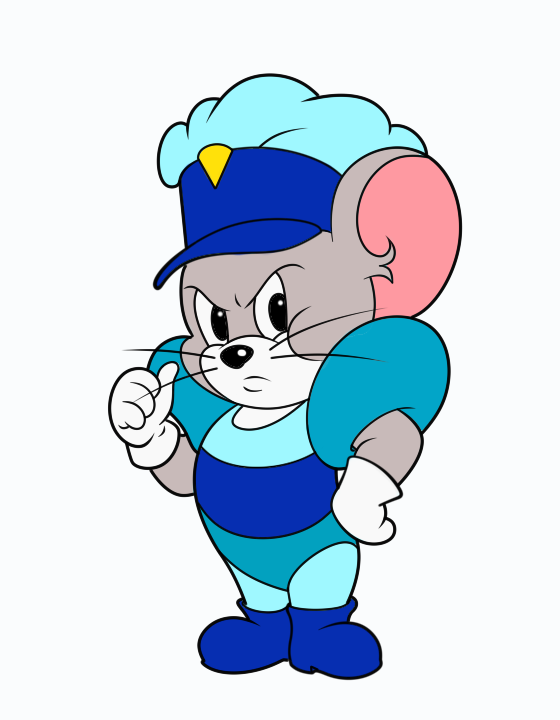
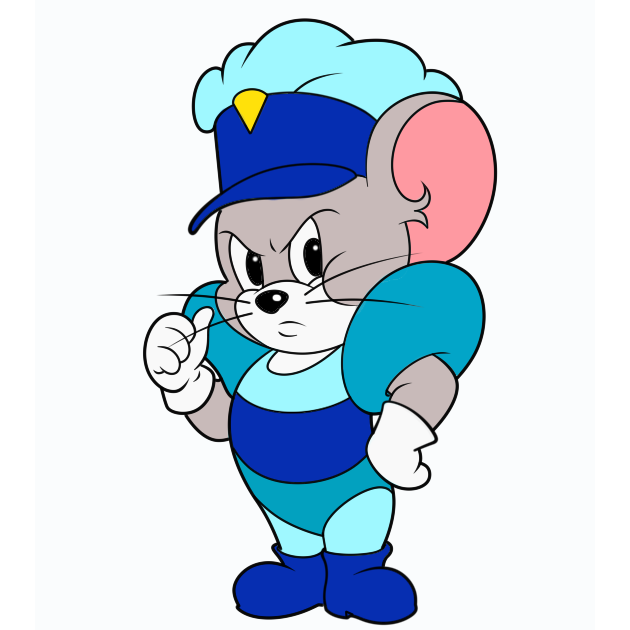
docs(mouseCharacters): add 蒙金奇 character

Changed region(s): [[0.1821, 0.0302, 0.85, 0.9952]]

diff --git a/src/data/mouseCharacters.ts b/src/data/mouseCharacters.ts
@@ -5,7 +5,7 @@ import type { CharacterDefinition } from './types';
 // Generate image URL based on character ID
 const getMouseImageUrl = (characterId: string): string => {
   // Check if the image exists, otherwise use a placeholder
-  const existingImages = ['杰瑞', '侦探杰瑞', '航海士杰瑞', '泰菲', '罗宾汉泰菲', '尼宝'];
+  const existingImages = ['杰瑞', '侦探杰瑞', '航海士杰瑞', '泰菲', '罗宾汉泰菲', '蒙金奇', '尼宝'];
 
   if (existingImages.includes(characterId)) {
     return `/images/mice/${characterId}.png`;
@@ -896,6 +896,133 @@ const mouseCharacterDefinitions: Record<string, CharacterDefinition> = {
             description: '增加Hp恢复；Lv.2的护盾触发时将解除受伤状态；加点时立刻获得护盾。',
             detailedDescription:
               '永久获得2/s的Hp恢复；Lv.2的护盾触发时将解除受伤状态；加点时立刻获得护盾并重置护盾CD。',
+          },
+        ],
+      },
+    ],
+  },
+
+  /* ----------------------------------- 蒙金奇 ---------------------------------- */
+  蒙金奇: {
+    description: '军团指挥官蒙金奇。',
+    maxHp: 99,
+    attackBoost: 25,
+    hpRecovery: 0.5,
+    moveSpeed: 640,
+    jumpHeight: 380,
+    cheesePushSpeed: 3,
+    wallCrackDamageBoost: 1,
+    mousePositioningTags: [
+      {
+        tagName: '破局',
+        isMinor: false,
+        description: '战车自带霸体，冲撞可撞开[绝大多数猫的布局](夹子、兔八哥萝卜、图多香水等)',
+        additionalDescription: '',
+      },
+      {
+        tagName: '干扰',
+        isMinor: false,
+        description: '战矛与冲撞配合，能安全地对猫咪进行较长时间的控制。',
+        additionalDescription:
+          '战矛配合干扰投掷与部分知识卡（如投手）可以进一步提高控制成功率；冲撞也能救下队友。',
+      },
+    ],
+    skillAllocations: [
+      {
+        id: '军团战车',
+        pattern: '12002[20]11',
+        weaponType: 'weapon1',
+        description:
+          '对于冲撞难以造成效果的猫（如图多，苏蕊，追风），六级优先三被；墙缝期优先点车。',
+        additionaldescription: '如果猫携带了猛攻知识卡，可以考虑优先二级车。，',
+      },
+    ],
+    knowledgeCardGroups: [
+      ['S-铁血', 'S-舍己', 'S-缴械', 'C-救救我'],
+      ['S-铁血', 'S-舍己', 'A-投手', 'C-不屈', 'C-救救我'],
+    ],
+    skills: [
+      {
+        name: '勇往直前',
+        type: 'active',
+        description:
+          '向前冲撞，期间获得霸体和减伤，推开道具并对猫造成少量伤害和击退。消耗士气值可以增强技能效果。',
+        detailedDescription:
+          '向前冲撞，期间获得霸体和30%减伤，持续1秒，推开道具并对猫造成10点伤害和击退。施放时可以消耗3格士气值造成25点伤害和更强的击退效果，并击落猫咪手中的道具与老鼠。驾驶战车时也可以施放，且无论士气值如何，均造成强化后的效果。',
+        canMoveWhileUsing: false,
+        canUseInAir: false,
+        cancelableSkill: '不可被打断', //前摇0.3秒
+        cancelableAftercast: '无后摇',
+        skillLevels: [
+          {
+            level: 1,
+            description: '',
+            cooldown: 30,
+          },
+          {
+            level: 2,
+            description: '减少CD。',
+            cooldown: 20,
+          },
+          {
+            level: 3,
+            description: '首次冲撞后，5秒内可再次冲撞。',
+            cooldown: 20,
+          },
+        ],
+      },
+      {
+        name: '军团战车',
+        type: 'weapon1',
+        description:
+          '消耗全部士气值，召唤拥有独立Hp的战车，每格士气值提升战车3秒持续时间。期间免疫控制，获得额外的战矛投掷技能和选择提前脱离战车的临时技能，但无法使用道具、交互或回复Hp。当战车Hp耗尽、持续时间结束、蒙金奇主动脱离时，战车进入自毁倒计时。战车爆炸，对范围内所有单位造成伤害。',
+        detailedDescription:
+          '消耗全部士气值，召唤拥有独立Hp的战车，每格士气值提升战车3秒持续时间，最多持续20秒。期间免疫控制，获得额外的[战矛投掷技能](前摇0.2秒，对猫咪造成30点伤害，CD为2秒)和选择提前脱离战车的临时技能，但无法使用道具、交互或[回复Hp](例外：国王的守护战旗)。当战车Hp耗尽、持续时间结束、蒙金奇主动脱离时，战车进入5秒自毁倒计时。战车爆炸，对范围内所有单位造成75点爆炸伤害和2秒眩晕、对未脱离战车的蒙金奇造成自身血量100%的伤害。',
+        canMoveWhileUsing: false,
+        canUseInAir: false,
+        cancelableSkill: '不可被打断', // 前摇0.7秒
+        cancelableAftercast: '无后摇',
+        skillLevels: [
+          {
+            level: 1,
+            description: '战车Hp为100点。',
+            cooldown: 35,
+          },
+          {
+            level: 2,
+            description: '战车Hp提高到125点。',
+            cooldown: 35,
+          },
+          {
+            level: 3,
+            description: '减少CD。',
+            cooldown: 28,
+          },
+        ],
+      },
+      {
+        name: '我，即是军团。',
+        type: 'passive',
+
+        skillLevels: [
+          {
+            level: 1,
+            description:
+              '自然增长士气值，上限为3格。对猫咪造成伤害会提升士气值。虛弱时士气值清空。每格士气值提升减伤能力。',
+            detailedDescription:
+              '以0.077格/s的速度自然增长士气值，上限为3格。每对猫咪造成一次伤害提高10点士气值。虛弱时士气值清空。每格士气值给予5%的减伤能力。',
+          },
+          {
+            level: 2,
+            description: '士气值上限提升到5格。友方对附近猫咪造成伤害时也会获得士气值。',
+            detailedDescription:
+              '士气值上限提升到5格。友方对自身一定范围内猫咪造成伤害时，蒙金奇也会获得半格士气值。',
+          },
+          {
+            level: 3,
+            description: '每格士气值额外提供移动速度和Hp恢复速度；士气自然增长速度提升。',
+            detailedDescription:
+              '每格士气值额外提供2%的移速和0.2/s的Hp恢复速度；士气自然增长速度提高到0.15格/s。',
           },
         ],
       },
